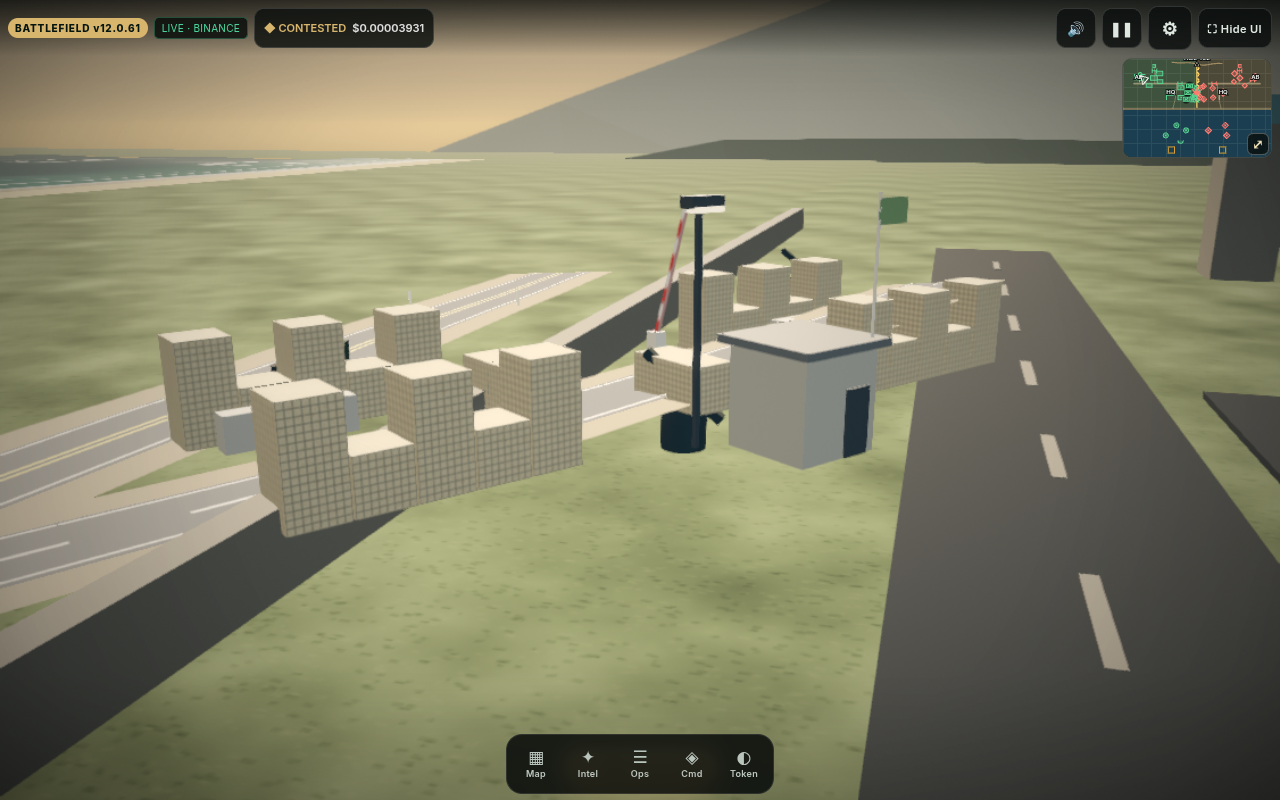
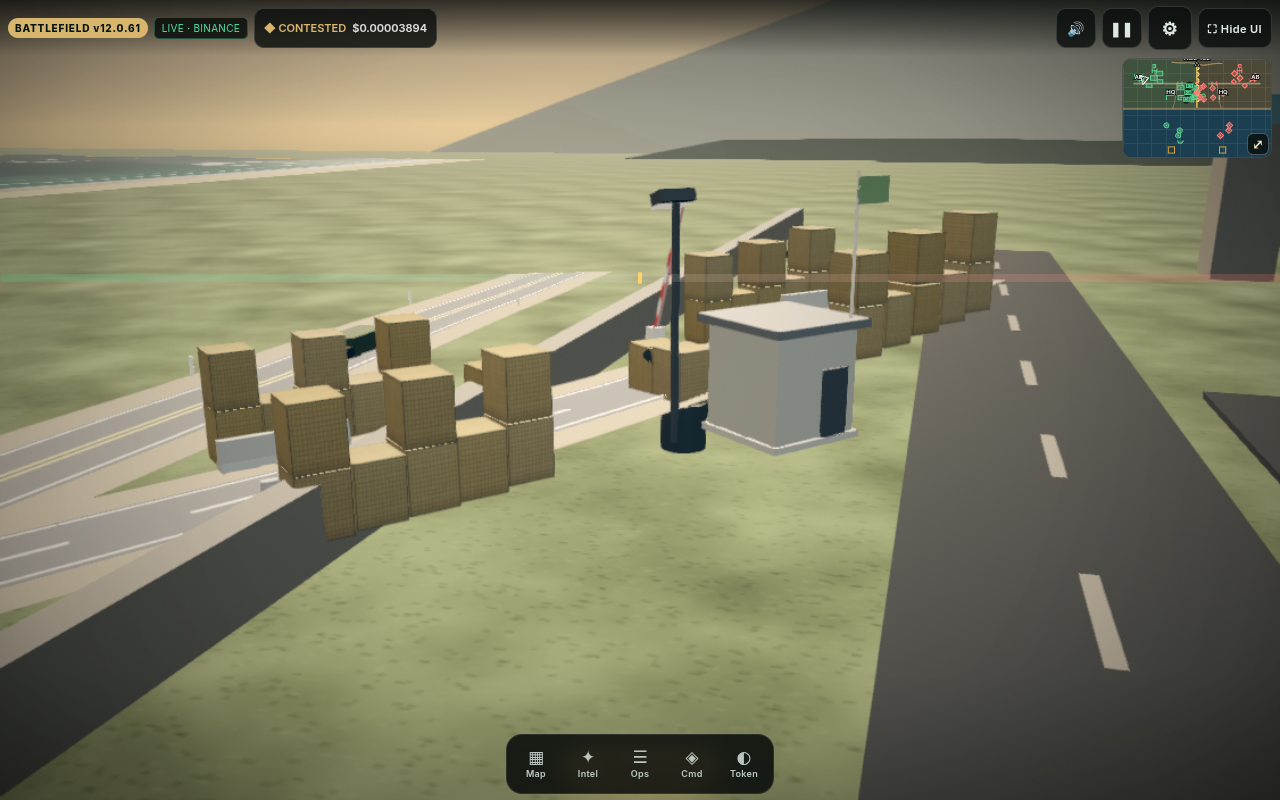
v12.0.61: snap checkpoints to roads, grounded blocks, MIL-1 HESCO, F-shape Jersey, night lights; probe

diff --git a/js/fx/revetments.js b/js/fx/revetments.js
@@ -5,6 +5,10 @@
  *    with a window and a flag, a floodlight mast and, on the two spurs, a striped boom barrier that lifts and drops.
  *    (The HQ supply road carries the convoy trucks, so it gets no boom and no blocks in the lane.)
  *  - Instanced blocks sitting on the real terrain height; LOW / phones get shorter walls and no floodlight.
+ *  - Polish (shipped 2026-11-11): each checkpoint snaps to the nearest point of its v12.0.60 road and turns to the road's
+ *    real heading; every HESCO / Jersey block sits on the terrain under its own footprint (no floating on slopes); HESCO
+ *    units use the real MIL-1 size (1.06 x 1.37 m) with bulging geotextile, per-unit tone and a few degrees of skew; Jersey
+ *    barriers use the F-shape profile; floodlights, light pools and booth windows come on at night (v12.0.51 sky-light).
  *  - Tactical map: small gate symbols. Kill switch: ?revet=0 (also off with ?realism=0). API: LUNCBattle.revetments.getState().
  */
 (function (global) {
@@ -12,8 +16,8 @@
   var LB = global.LUNCBattle = global.LUNCBattle || {}, doc = global.document;
   var qs; try { qs = new URLSearchParams(global.location.search); } catch (_) { qs = { get: function () { return null; } }; }
   var enabled = qs.get('revet') !== '0' && qs.get('realism') !== '0';
-  var THREE = null, root = null, built = false, cps = [], mats = null, stats = { checkpoints: 0, hesco: 0, jersey: 0, booths: 0, booms: 0, lights: 0, boomUp: 0 };
-  var clock = 0;
+  var THREE = null, root = null, built = false, cps = [], mats = null, pools = [], lastNight = -1, stats = { checkpoints: 0, hesco: 0, jersey: 0, booths: 0, booms: 0, lights: 0, boomUp: 0, snapped: 0, night: 0 };
+  var clock = 0, col2 = null;
   function E() { return LB.engine; }
   function H(x, z) { try { return E().terrainHeight(x, z) || 0; } catch (_) { return 0; } }
   function tier() { try { return LB.quality.getEffectiveName(); } catch (_) { return 'HIGH'; } }
@@ -28,44 +32,101 @@
   }
   function canvasTex(draw, w, h) { var c = doc.createElement('canvas'); c.width = w; c.height = h; draw(c.getContext('2d'), w, h); var t = new THREE.CanvasTexture(c); t.wrapS = t.wrapT = THREE.RepeatWrapping; return t; }
   function mk() {
-    var hesco = canvasTex(function (g, w, h) { g.fillStyle = '#b9a67c'; g.fillRect(0, 0, w, h); for (var i = 0; i < 400; i++) { g.fillStyle = 'rgba(' + (120 + Math.random() * 60 | 0) + ',' + (100 + Math.random() * 50 | 0) + ',70,0.25)'; g.fillRect(Math.random() * w, Math.random() * h, 2 + Math.random() * 3, 2 + Math.random() * 3); } g.strokeStyle = 'rgba(55,55,50,0.85)'; g.lineWidth = 2; for (var k = 0; k <= 8; k++) { g.beginPath(); g.moveTo(k * w / 8, 0); g.lineTo(k * w / 8, h); g.stroke(); g.beginPath(); g.moveTo(0, k * h / 8); g.lineTo(w, k * h / 8); g.stroke(); } }, 128, 128);
+    var hesco = canvasTex(function (g, w, h) { g.fillStyle = '#a8946a'; g.fillRect(0, 0, w, h); for (var i = 0; i < 700; i++) { g.fillStyle = 'rgba(' + (120 + Math.random() * 60 | 0) + ',' + (100 + Math.random() * 50 | 0) + ',70,0.25)'; g.fillRect(Math.random() * w, Math.random() * h, 2 + Math.random() * 3, 2 + Math.random() * 3); } var gr = g.createLinearGradient(0, 0, 0, h); gr.addColorStop(0, 'rgba(255,245,220,0.10)'); gr.addColorStop(0.8, 'rgba(70,55,35,0)'); gr.addColorStop(1, 'rgba(70,55,35,0.35)'); g.fillStyle = gr; g.fillRect(0, 0, w, h); g.strokeStyle = 'rgba(70,72,66,0.7)'; g.lineWidth = 1; for (var k = 0; k <= 14; k++) { g.beginPath(); g.moveTo(k * w / 14, 0); g.lineTo(k * w / 14, h); g.stroke(); g.beginPath(); g.moveTo(0, k * h / 14); g.lineTo(w, k * h / 14); g.stroke(); } g.lineWidth = 2.5; g.strokeStyle = 'rgba(60,62,58,0.85)'; g.strokeRect(1, 1, w - 2, h - 2); }, 128, 128);
     var stripe = canvasTex(function (g, w, h) { for (var i = 0; i < 8; i++) { g.fillStyle = i % 2 ? '#f2f2f2' : '#c4281f'; g.fillRect(i * w / 8, 0, w / 8, h); } }, 128, 16);
+    var poolTex = canvasTex(function (g, w, h) { var r = g.createRadialGradient(w / 2, h / 2, 0, w / 2, h / 2, w / 2); r.addColorStop(0, 'rgba(255,255,255,1)'); r.addColorStop(0.55, 'rgba(255,255,255,0.45)'); r.addColorStop(1, 'rgba(255,255,255,0)'); g.fillStyle = r; g.fillRect(0, 0, w, h); }, 64, 64);
+    var stopTex = canvasTex(function (g, w, h) { g.fillStyle = '#c4281f'; g.beginPath(); g.arc(w / 2, h / 2, w / 2 - 2, 0, 7); g.fill(); g.strokeStyle = '#fff'; g.lineWidth = 4; g.stroke(); g.fillStyle = '#fff'; g.font = 'bold 18px sans-serif'; g.textAlign = 'center'; g.textBaseline = 'middle'; g.fillText('STOP', w / 2, h / 2 + 1); }, 64, 64);
     return {
       hesco: new THREE.MeshStandardMaterial({ map: hesco, roughness: 1 }), jersey: new THREE.MeshStandardMaterial({ color: 0x9a9890, roughness: 0.95 }),
+      hescoGeo: hescoGeo(), jerseyGeo: jerseyGeo(), poolGeo: new THREE.CircleGeometry(6, 24),
+      pool: new THREE.MeshBasicMaterial({ map: poolTex, color: 0xffe2a8, transparent: true, opacity: 0, depthWrite: false, blending: THREE.AdditiveBlending, polygonOffset: true, polygonOffsetFactor: -4 }),
+      stop: new THREE.MeshStandardMaterial({ map: stopTex, roughness: 0.6, side: THREE.DoubleSide }),
       wall: new THREE.MeshStandardMaterial({ color: 0x8a8a80, roughness: 0.9 }), roof: new THREE.MeshStandardMaterial({ color: 0x3a3d3f, roughness: 0.7 }), glass: new THREE.MeshStandardMaterial({ color: 0x14242c, roughness: 0.2, metalness: 0.6 }),
       boom: new THREE.MeshStandardMaterial({ map: stripe, roughness: 0.6 }), post: new THREE.MeshStandardMaterial({ color: 0xd8d4c8, roughness: 0.7 }), dark: new THREE.MeshStandardMaterial({ color: 0x2b2e30, roughness: 0.6, metalness: 0.4 }),
-      lamp: new THREE.MeshBasicMaterial({ color: 0xfff0c0 }), flag: new THREE.MeshStandardMaterial({ color: 0x777777, roughness: 0.8, side: THREE.DoubleSide })
+      lamp: new THREE.MeshBasicMaterial({ color: 0x6b675e }), flag: new THREE.MeshStandardMaterial({ color: 0x777777, roughness: 0.8, side: THREE.DoubleSide })
     };
   }
+
+  function snap(side, D) {   // nearest point on the matching v12.0.60 road, with that segment's heading
+    var nets; try { nets = LB.roads && LB.roads._nets ? LB.roads._nets() : null; } catch (_) { nets = null; }
+    var id = D.id === 'hq' ? 'supply' : D.id, R = null;
+    if (nets) for (var i = 0; i < nets.length; i++) if (nets[i].side === side && nets[i].id === id) { R = nets[i]; break; }
+    if (!R || !R.pts || R.pts.length < 2) return D;
+    var best = null;
+    for (var j = 1; j < R.pts.length; j++) {
+      var a = R.pts[j - 1], b = R.pts[j], vx = b[0] - a[0], vz = b[1] - a[1], L2 = vx * vx + vz * vz; if (!L2) continue;
+      var t = ((D.x - a[0]) * vx + (D.z - a[1]) * vz) / L2; t = t < 0 ? 0 : t > 1 ? 1 : t;
+      var px = a[0] + vx * t, pz = a[1] + vz * t, d2 = (px - D.x) * (px - D.x) + (pz - D.z) * (pz - D.z);
+      if (!best || d2 < best.d2) { var L = Math.sqrt(L2), sx = vx / L, sz = vz / L; if (sx * D.dx + sz * D.dz < 0) { sx = -sx; sz = -sz; } best = { d2: d2, x: px, z: pz, dx: sx, dz: sz }; }
+    }
+    if (!best || best.d2 > 36) return D;   // more than 6 m away: keep the authored spot
+    stats.snapped++;
+    return Object.assign({}, D, { x: best.x, z: best.z, dx: best.dx, dz: best.dz, hw: R.w ? Math.max(D.hw, R.w / 2) : D.hw });
+  }
+  function hescoGeo() {   // MIL-1 unit 1.06 x 1.37 x 1.06 m, sides bulge out a few cm where the sand pushes the geotextile
+    var g = new THREE.BoxGeometry(1.06, 1.37, 1.06, 3, 3, 3), P = g.attributes.position, v = new THREE.Vector3();
+    for (var i = 0; i < P.count; i++) {
+      v.fromBufferAttribute(P, i); var fy = 1 - Math.pow(v.y / 0.685, 2);   // 0 at top / bottom rim, 1 mid-height
+      var bx = Math.abs(v.x) > 0.52 ? 1 : 0, bz = Math.abs(v.z) > 0.52 ? 1 : 0, mx = 1 - Math.pow(v.z / 0.53, 2), mz = 1 - Math.pow(v.x / 0.53, 2);
+      if (bx) v.x *= 1 + 0.06 * fy * Math.max(0, mx); if (bz) v.z *= 1 + 0.06 * fy * Math.max(0, mz);
+      if (v.y > 0.68) v.y -= 0.05 * Math.max(0, mx) * Math.max(0, mz);   // sand settles: the top sags a little
+      P.setXYZ(i, v.x, v.y, v.z);
+    }
+    g.computeVertexNormals(); return g;
+  }
+  function jerseyGeo() {   // F-shape concrete barrier: 0.6 m foot, 0.2 m top, 0.81 m tall, 3 m long (along local X)
+    var sh = new THREE.Shape(); sh.moveTo(-0.3, 0); sh.lineTo(0.3, 0); sh.lineTo(0.3, 0.07); sh.lineTo(0.16, 0.3); sh.lineTo(0.1, 0.81); sh.lineTo(-0.1, 0.81); sh.lineTo(-0.16, 0.3); sh.lineTo(-0.3, 0.07); sh.lineTo(-0.3, 0);
+    var g = new THREE.ExtrudeGeometry(sh, { depth: 3, bevelEnabled: false }); g.translate(0, 0, -1.5); g.rotateY(Math.PI / 2); g.computeVertexNormals(); return g;
+  }
+  var _v = null;
+  function grounded(g, lx, ly, lz) {   // local block position → local y that puts the block's base on the terrain under it
+    _v = _v || new THREE.Vector3(); _v.set(lx, 0, lz).applyMatrix4(g.matrixWorld);
+    return H(_v.x, _v.z) - g.position.y + ly;
+  }
   function box(p, w, h, d, m, x, y, z) { var o = new THREE.Mesh(new THREE.BoxGeometry(w, h, d), m); o.position.set(x, y, z); p.add(o); return o; }
-  function buildCp(side, D, l) {
-    var g = new THREE.Group(); g.position.set(D.x, H(D.x, D.z), D.z); g.rotation.y = -Math.atan2(D.dz, D.dx); root.add(g);
-    var hw = D.hw, off = hw + 1.6, sideCol = side < 0 ? 0x4b6b3c : 0x7a4a3a;
-    // HESCO walls flanking the road (local X = along road, Z = lateral)
+  function buildCp(side, D0, l) {
+    var D = snap(side, D0);
+    var g = new THREE.Group(); g.position.set(D.x, H(D.x, D.z), D.z); g.rotation.y = -Math.atan2(D.dz, D.dx); root.add(g); g.updateMatrixWorld(true);
+    var hw = D.hw, off = hw + 1.7, sideCol = side < 0 ? 0x4b6b3c : 0x7a4a3a, HH = 1.37, d = new THREE.Object3D(), col = new THREE.Color();
+    // HESCO walls flanking the road (local X = along road, Z = lateral); MIL-1 units 1.06 m wide, 1.37 m tall
     var pos = [], span = l ? 3 : 5;
-    for (var side2 = -1; side2 <= 1; side2 += 2) for (var i = 0; i < span; i++) for (var u = 0; u < 2; u++) { var ux = (u ? 1 : -1) * (5 + i * 1.25); pos.push([ux, 0.6, side2 * off, 0]); if (!l && i % 2 === 0) pos.push([ux, 1.8, side2 * off, 0]); }
-    if (D.chicane) { pos.push([-3.2, 0.6, -hw * 0.45, 0], [-3.2, 0.6, -hw * 0.45 - 1.2, 0], [0.4, 0.6, hw * 0.45, 0], [0.4, 0.6, hw * 0.45 + 1.2, 0]); }
-    var im = new THREE.InstancedMesh(new THREE.BoxGeometry(1.2, 1.2, 1.2), mats.hesco, pos.length), d = new THREE.Object3D();
-    pos.forEach(function (p, i) { d.position.set(p[0], p[1], p[2]); d.rotation.set(0, 0, 0); d.updateMatrix(); im.setMatrixAt(i, d.matrix); }); g.add(im); stats.hesco += pos.length;
-    // Jersey barriers at the road edge approaching the gate
-    var jp = [[-8.5, -hw - 0.5], [-8.5, hw + 0.5], [8.5, -hw - 0.5], [8.5, hw + 0.5]], jm = new THREE.InstancedMesh(new THREE.BoxGeometry(3, 0.85, 0.55), mats.jersey, jp.length);
-    jp.forEach(function (p, i) { d.position.set(p[0], 0.42, p[1]); d.updateMatrix(); jm.setMatrixAt(i, d.matrix); }); g.add(jm); stats.jersey += jp.length;
+    for (var side2 = -1; side2 <= 1; side2 += 2) for (var i = 0; i < span; i++) for (var u = 0; u < 2; u++) { var ux = (u ? 1 : -1) * (5 + i * 1.08); pos.push([ux, HH / 2, side2 * off, 0]); if (!l && i % 2 === 0) pos.push([ux, HH * 1.5, side2 * off, 1]); }
+    if (D.chicane) { pos.push([-3.2, HH / 2, -hw * 0.45, 0], [-3.2, HH / 2, -hw * 0.45 - 1.08, 0], [0.4, HH / 2, hw * 0.45, 0], [0.4, HH / 2, hw * 0.45 + 1.08, 0]); }
+    var im = new THREE.InstancedMesh(mats.hescoGeo, mats.hesco, pos.length), base = {};
+    pos.forEach(function (p, i) {
+      var key = p[0] + ',' + p[2], y;
+      if (p[3] && base[key] != null) y = base[key] + HH;   // stacked unit rides on the one below
+      else { y = grounded(g, p[0], p[1], p[2]) - 0.06; base[key] = y; }   // sink 6 cm so the sand meets the ground
+      d.position.set(p[0], y, p[2]); d.rotation.set(0, (Math.random() - 0.5) * 0.07, (Math.random() - 0.5) * 0.02);
+      var sc = 0.97 + Math.random() * 0.06; d.scale.set(sc, 0.96 + Math.random() * 0.05, sc); d.updateMatrix(); im.setMatrixAt(i, d.matrix);
+      col.setHSL(0.11 + Math.random() * 0.02, 0.22 + Math.random() * 0.1, 0.5 + Math.random() * 0.12); im.setColorAt(i, col);
+    });
+    if (im.instanceColor) im.instanceColor.needsUpdate = true; g.add(im); stats.hesco += pos.length;
+    // F-shape Jersey barriers at the road edge approaching the gate, each on its own patch of ground
+    var jp = [[-8.5, -hw - 0.45], [-8.5, hw + 0.45], [8.5, -hw - 0.45], [8.5, hw + 0.45]], jm = new THREE.InstancedMesh(mats.jerseyGeo, mats.jersey, jp.length);
+    d.scale.set(1, 1, 1);
+    jp.forEach(function (p, i) { d.position.set(p[0], grounded(g, p[0], 0, p[1]) - 0.03, p[1]); d.rotation.set(0, (Math.random() - 0.5) * 0.05, 0); d.updateMatrix(); jm.setMatrixAt(i, d.matrix); }); g.add(jm); stats.jersey += jp.length;
     // guard booth on the shoulder, on the +Z side, with a window facing the road and a flag
-    var bz = off + 2.6, b = new THREE.Group(); b.position.set(0, 0, bz); g.add(b);
+    var bz = off + 2.6, b = new THREE.Group(); b.position.set(0, grounded(g, 0, 0, bz), bz); g.add(b);
     box(b, 2.2, 2.3, 2.2, mats.wall, 0, 1.15, 0); box(b, 2.6, 0.18, 2.6, mats.roof, 0, 2.4, 0); box(b, 1.4, 0.7, 0.06, mats.glass, 0, 1.45, -1.12); box(b, 0.7, 1.5, 0.06, mats.dark, 0.5, 0.75, 1.12);
-    var fp = box(b, 0.05, 3.2, 0.05, mats.post, 1.0, 3.9, 1.0); var fl = box(b, 0.9, 0.55, 0.03, new THREE.MeshStandardMaterial({ color: sideCol, roughness: 0.8, side: THREE.DoubleSide }), 1.45, 5.1, 1.0);
+    box(b, 2.4, 0.15, 2.4, mats.jersey, 0, -0.02, 0);   // concrete pad under the booth
+    box(b, 0.05, 3.2, 0.05, mats.post, 1.0, 3.9, 1.0); box(b, 0.9, 0.55, 0.03, new THREE.MeshStandardMaterial({ color: sideCol, roughness: 0.8, side: THREE.DoubleSide }), 1.45, 5.1, 1.0);
     stats.booths++;
-    // floodlight mast
-    if (!l) { var mast = new THREE.Group(); mast.position.set(-1.8, 0, off + 1.2); g.add(mast); box(mast, 0.12, 5.2, 0.12, mats.dark, 0, 2.6, 0); box(mast, 0.9, 0.25, 0.4, mats.dark, 0, 5.3, 0.1); box(mast, 0.8, 0.12, 0.3, mats.lamp, 0, 5.15, 0.2); stats.lights++; }
-    var cp = { side: side, id: D.id, x: D.x, z: D.z, g: g, bar: null, ph: Math.random() * 14, up: 0 };
+    // floodlight mast + (MEDIUM+) the pool of light it throws on the road at night
+    if (!l) {
+      var mz = off + 1.2, mast = new THREE.Group(); mast.position.set(-1.8, grounded(g, -1.8, 0, mz), mz); g.add(mast);
+      box(mast, 0.12, 5.2, 0.12, mats.dark, 0, 2.6, 0); var head = box(mast, 0.9, 0.25, 0.4, mats.dark, 0, 5.3, -0.1); head.rotation.x = -0.35; box(mast, 0.8, 0.12, 0.3, mats.lamp, 0, 5.15, -0.2).rotation.x = -0.35; stats.lights++;
+      var pool = new THREE.Mesh(mats.poolGeo, mats.pool.clone()); pool.rotation.x = -Math.PI / 2; pool.position.set(-1.8, grounded(g, -1.8, 0, 0) + 0.12, 0); pool.renderOrder = 3; pool.visible = false; g.add(pool); pools.push(pool);
+    }
+    var cp = { side: side, id: D.id, x: D.x, z: D.z, dx: D.dx, dz: D.dz, g: g, bar: null, ph: Math.random() * 14, up: 0 };
     if (D.boom) {   // striped boom barrier: post on the -Z shoulder, bar spans the road along Z, lifts about the X axis
-      var pivot = new THREE.Group(); pivot.position.set(2.2, 1.0, -hw - 0.6); g.add(pivot); box(g, 0.4, 1.1, 0.4, mats.post, 2.2, 0.55, -hw - 0.6); box(g, 0.4, 0.5, 0.4, mats.dark, 2.2, 0.25, hw + 0.7);
-      var L = hw * 2 + 1.2, bar = box(pivot, 0.1, 0.12, L, mats.boom, 0, 0, L / 2); bar.material.map.repeat.set(1, 1); cp.bar = pivot; cp.L = L; stats.booms++;
+      var py = grounded(g, 2.2, 0, -hw - 0.6), pivot = new THREE.Group(); pivot.position.set(2.2, py + 1.0, -hw - 0.6); g.add(pivot); box(g, 0.4, 1.1, 0.4, mats.post, 2.2, py + 0.55, -hw - 0.6); box(g, 0.4, 0.5, 0.4, mats.dark, 2.2, grounded(g, 2.2, 0, hw + 0.7) + 0.25, hw + 0.7);
+      var L = hw * 2 + 1.2; box(pivot, 0.1, 0.12, L, mats.boom, 0, 0, L / 2); box(pivot, 0.03, 0.4, 0.4, mats.stop, 0, -0.26, L / 2); cp.bar = pivot; cp.L = L; stats.booms++;
     }
     cps.push(cp); stats.checkpoints++;
   }
   function build() {
-    var e = E(); THREE = e.THREE; root = new THREE.Group(); root.name = 'v12-revetments'; e.scene.add(root); mats = mk(); var l = lite();
+    var e = E(); THREE = e.THREE; root = new THREE.Group(); root.name = 'v12-revetments'; e.scene.add(root); mats = mk(); col2 = new THREE.Color(); var l = lite();
     [-1, 1].forEach(function (s) { defs(s).forEach(function (D) { buildCp(s, D, l); }); });
     built = true;
   }
@@ -79,6 +140,12 @@
       k = k < 0 ? 0 : k > 1 ? 1 : k; var target = -k * 1.25; c.bar.rotation.x += (target - c.bar.rotation.x) * Math.min(1, dt * 6); c.up = k; if (k > 0.5) up++;
     }
     stats.boomUp = up;
+    var n = 0; try { var sk = LB.skyLight && LB.skyLight.getState ? LB.skyLight.getState() : null; n = sk && sk.active ? +sk.lightsOn || 0 : 0; } catch (_) { n = 0; }
+    if (Math.abs(n - lastNight) > 0.02) {   // floodlights, light pools and booth windows follow the v12.0.51 night lights
+      lastNight = n; stats.night = +n.toFixed(2);
+      mats.lamp.color.setHex(0x6b675e).lerp(col2.setHex(0xfff0c0), n); mats.glass.emissive.setHex(0xffc870); mats.glass.emissiveIntensity = 0.55 * n;
+      for (var p = 0; p < pools.length; p++) { pools[p].visible = n > 0.05; pools[p].material.opacity = 0.32 * n; }
+    }
   }
   function drawMap(c, X, Z, big, own) {
     if (!enabled || !built) return 0; var s = big ? 3.2 : 2.2;
@@ -89,6 +156,12 @@
   LB.revetments = {
     version: 'v12.0.61', isEnabled: function () { return enabled; }, tick: tick, drawMap: drawMap,
     getState: function () { return Object.assign({ enabled: enabled, built: built, boomAngles: cps.filter(function (c) { return c.bar; }).map(function (c) { return +c.bar.rotation.x.toFixed(2); }) }, stats); },
-    _cps: function () { return cps; }, _root: function () { return root; }, _clock: function (v) { if (v != null) clock = v; return clock; }
+    _cps: function () { return cps; }, _pools: function () { return pools; },
+    _gaps: function () {   // worst distance between a ground-tier block's base and the terrain under its centre (m)
+      var worst = 0, m = new THREE.Matrix4(), v = new THREE.Vector3();
+      cps.forEach(function (c) { c.g.updateMatrixWorld(true); c.g.children.forEach(function (o) { if (!o.isInstancedMesh) return; var half = o.geometry === mats.hescoGeo ? 0.685 : 0;
+        for (var i = 0; i < o.count; i++) { o.getMatrixAt(i, m); v.setFromMatrixPosition(m); v.applyMatrix4(c.g.matrixWorld); var base = v.y - half * 0.98, gnd = H(v.x, v.z), gp = base - gnd; if (gp < 1.0) worst = Math.max(worst, Math.abs(gp)); } }); });
+      return +worst.toFixed(3);
+    }, _night: function () { lastNight = -1; }, _root: function () { return root; }, _clock: function (v) { if (v != null) clock = v; return clock; }
   };
 })(window);

diff --git a/tests/revetments-harness.js b/tests/revetments-harness.js
@@ -17,12 +17,18 @@ const OUT = process.env.OUT || 'docs/v12061-shots';
   const out = {}; process.on('exit', () => { if (!out._printed) console.log(JSON.stringify(out, null, 1)); });
   const A = await mk('MEDIUM', false, '');
   out.state = await A.evaluate(() => LUNCBattle.revetments.getState());
+  out.gaps = await A.evaluate(() => LUNCBattle.revetments._gaps());
+  out.align = await A.evaluate(() => LUNCBattle.revetments._cps().map(c => ({ id: c.id, side: c.side, x: +c.x.toFixed(1), z: +c.z.toFixed(1), dx: +c.dx.toFixed(2), dz: +c.dz.toFixed(2) })));
+  out.nightOn = await A.evaluate(() => { const R = LUNCBattle.revetments, S = LUNCBattle.skyLight, g0 = S.getState; S.getState = () => Object.assign(g0(), { active: true, lightsOn: 1 }); R._night(); R.tick(0.05);
+    const on = { night: R.getState().night, pools: R._pools().filter(p => p.visible).length }; S.getState = g0; R._night(); R.tick(0.05); on.dayPools = R._pools().filter(p => p.visible).length; return on; });
   out.boom = await A.evaluate(() => { const R = LUNCBattle.revetments, seen = []; R._clock(0); R._cps().forEach(c => { if (c.bar) c.ph = 0; });
     for (let t = 0; t < 14; t += 0.1) { R.tick(0.1); seen.push(R.getState().boomAngles[0]); } return { min: Math.min(...seen), max: Math.max(...seen), up: R.getState().boomUp }; });
   // pose for screenshots: airbase gate, boom up
   await A.evaluate(() => { const R = LUNCBattle.revetments; R._clock(0); R._cps().forEach(c => { c.ph = 8.5 - 0; }); R.tick(0.01); for (let i = 0; i < 40; i++) R.tick(0.05); });
   await cam(A, -170, 8, -52, -194.5, 1, -44.7); await A.waitForTimeout(2500); await A.screenshot({ path: OUT + '/checkpoint-airbase.png', timeout: 120000 });
   await cam(A, 74, 7, -22, 60, 1, -32); await A.waitForTimeout(2000); await A.screenshot({ path: OUT + '/checkpoint-hq.png', timeout: 120000 });
+  await A.evaluate(() => { const S = LUNCBattle.skyLight, g0 = S.getState; S.getState = () => Object.assign(g0(), { active: true, lightsOn: 1 }); LUNCBattle.revetments._night(); LUNCBattle.revetments.tick(0.05); });
+  await A.waitForTimeout(1500); await A.screenshot({ path: OUT + '/checkpoint-hq-lights.png', timeout: 120000 });
   await A.evaluate(() => { LUNCBattle.tacmap.open(); }); await A.waitForTimeout(2000); await A.screenshot({ path: OUT + '/checkpoint-tacmap.png', timeout: 120000 });
   out.mediumErrs = A.errs; await A.context().close();
   const K = await mk('MEDIUM', false, '?revet=0');
@@ -32,7 +38,7 @@ const OUT = process.env.OUT || 'docs/v12061-shots';
   out.iphone = await L.evaluate(() => new Promise(r => setTimeout(() => r(LUNCBattle.revetments.getState()), 5000)));
   out.iphoneErrs = L.errs; await L.context().close();
   console.log(JSON.stringify(out, null, 1)); out._printed = 1;
-  const ok = out.state.built && out.state.checkpoints === 6 && out.state.booms === 4 && out.state.booths === 6 && out.state.lights === 6 && out.state.hesco > 100 && out.boom.min < -1.0 && out.boom.max > -0.05 &&
+  const ok = out.state.built && out.state.checkpoints === 6 && out.state.snapped === 6 && out.gaps < 0.12 && out.nightOn.night === 1 && out.nightOn.pools === 6 && out.nightOn.dayPools === 0 && out.state.booms === 4 && out.state.booths === 6 && out.state.lights === 6 && out.state.hesco > 100 && out.boom.min < -1.0 && out.boom.max > -0.05 &&
     !out.off.on && !out.off.root && out.iphone.built && out.iphone.lights === 0 && out.iphone.hesco < out.state.hesco && !out.mediumErrs.length && !out.offErrs.length && !out.iphoneErrs.length;
   console.log(ok ? 'REVET PROBE PASS' : 'REVET PROBE FAIL'); await b.close(); process.exit(ok ? 0 : 1);
 })().catch(e => { console.error(e); process.exit(2); });
